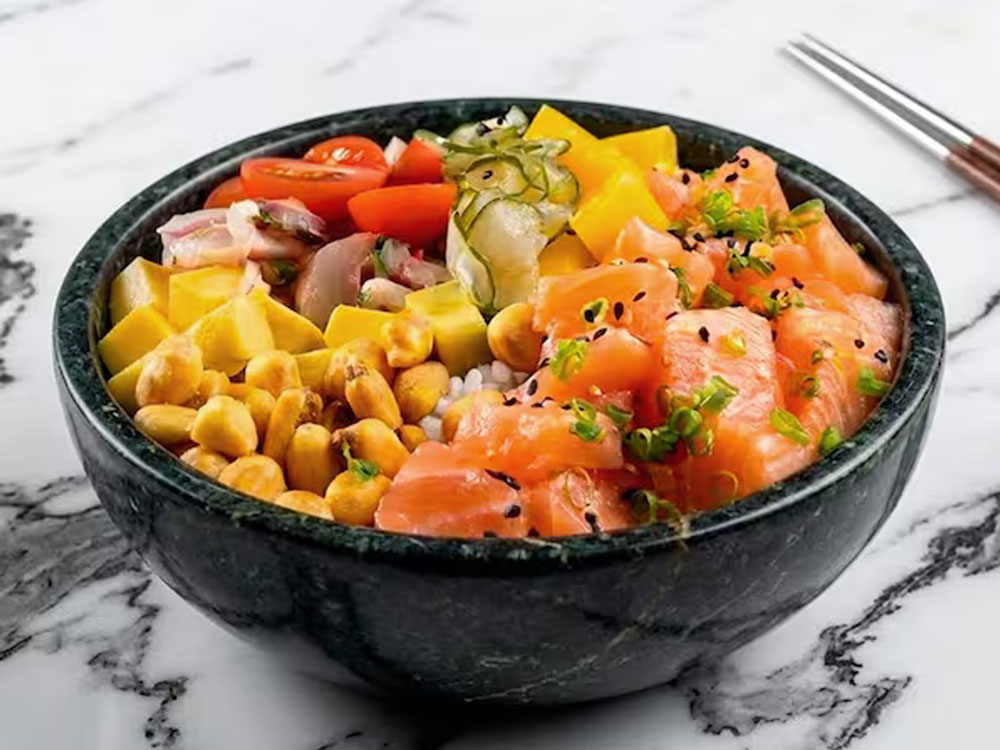
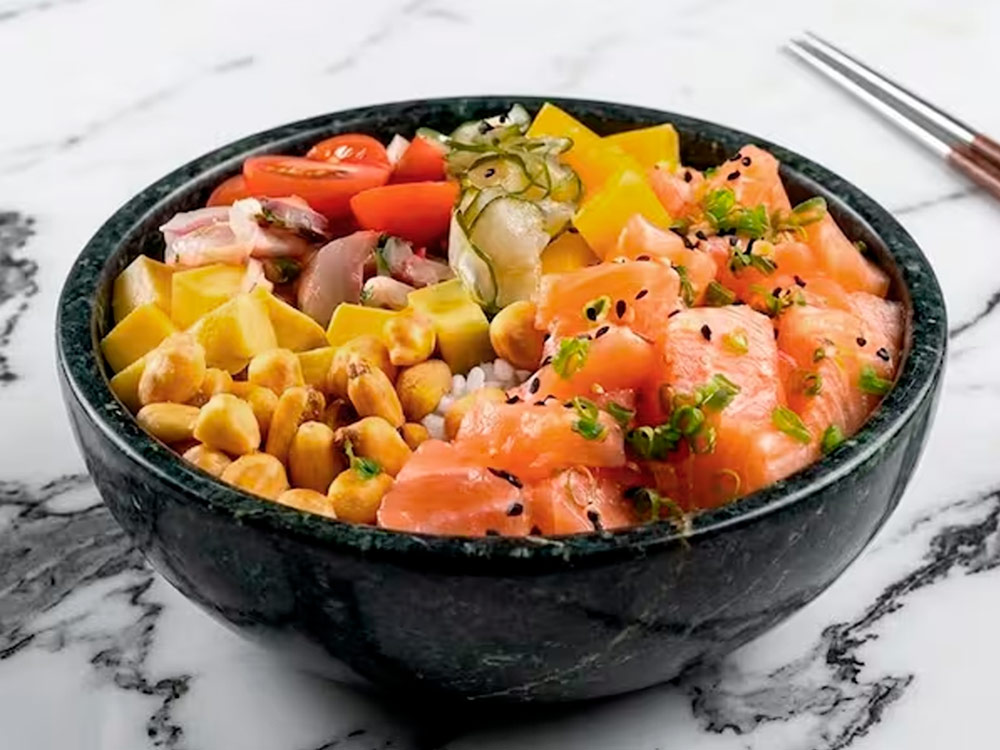
itens 0.3

diff --git a/combinados/itens.js b/combinados/itens.js
@@ -72,31 +72,44 @@
         thumb: "img/hot-12und.jpg?w=600&q=80"
       },
       {
-        id: 4, category: "Promoções",
+        id: 4, category: "Pokes",
         title: "Poke Domó Salmão com Ceviche",
-        description: "-- POKE 500g -- - 200g Arroz Japonês, - 100g  Cubos de Salmão Fresco, - 30g   Ceviche de Peixe Branco,- 40g   Manga Doce, - 40g   Abacate Cremoso, - 40g   Tomatinhos, - 40g   Sunomono, - 10g   Milho Desidratado.     -- POKE 350g -- - 140g Arroz Japonês, - 70g   Cubos de Salmão Fresco, - 21g   Ceviche de Peixe Branco, - 28g  Manga Doce, - 28g  Abacate Cremoso, - 28g  Tomatinhos, - 28g  Sunomono, - 7g  Milho Desidratado",
+        description: "*POKE 500g* - 200g Arroz Japonês, - 100g  Cubos de Salmão Fresco, - 30g   Ceviche de Peixe Branco,- 40g   Manga Doce, - 40g   Abacate Cremoso, - 40g   Tomatinhos, - 40g   Sunomono, - 10g   Milho Desidratado. Com toque de mel, gergelim e cebolinha.",
+        description2: "*POKE 350g* - 140g Arroz Japonês, - 70g   Cubos de Salmão Fresco, - 21g   Ceviche de Peixe Branco, - 28g  Manga Doce, - 28g  Abacate Cremoso, - 28g  Tomatinhos, - 28g  Sunomono, - 7g  Milho Desidratado. Com toque de mel, gergelim e cebolinha.",
         price: "R$ 0",
         color: "#3a3020",
         image: "img/poke-salmao.jpg?w=1200&q=80",
         thumb: "img/poke-salmao.jpg?w=600&q=80"
       },
       {
-        id: 5, category: "Sobremesas",
-        title: "Cheesecake de Maracujá",
-        description: "Cheesecake nova-iorquino com base de biscoito especuloos, creme de cream cheese e mascarpone, coulis de maracujá fresco com sementes crocantes. Refrescante acidez equilibrada pela suavidade da baunilha de Madagascar.",
-        price: "R$ 42",
+        id: 5, category: "Pokes",
+        title: "Poke Domó Camarão",
+        description: "*Poke 500g* -200g Arroz Japonês, - 100g Camarão Crocante, - 30g Ceviche de Peixe Branco, - 40g Manga Doce, - 40g Abacate Cremoso, - 40g Tomate Cereja, - 40g Sunomono, - 10g Milho Desidratado. Com toque de mel, gergelim e cebolinha.",
+        description2: "*Poke 350g* -140g Arroz Japonês, - 70g  Camarão Crocante, - 21g  Ceviche de Peixe Branco, - 28g  Tomatinhos, - 28g  Sunomono, - 28g  Manga Doce, - 28g  Abacate Cremoso, - 7g  Milho Desidratado. Com toque de mel, gergelim e cebolinha.",
+        price: "R$ 0",
         color: "#2a2a1a",
-        image: "https://images.unsplash.com/photo-1567171466295-4afa63d45416?w=1200&q=80",
-        thumb: "https://images.unsplash.com/photo-1567171466295-4afa63d45416?w=600&q=80"
+        image: "img/poke-camarao.jpg?w=1200&q=80",
+        thumb: "img/poke-camarao.jpg?w=600&q=80"
       },
       {
-        id: 6, category: "Sobremesas",
-        title: "Tiramisù Clássico",
-        description: "Receita tradicional italiana com savoiardi embebidos em espresso artesanal, creme de mascarpone e gemas pasteurizadas com açúcar de cana, coberto com cacau belga em pó. Servido em taça individual à temperatura perfeita.",
-        price: "R$ 48",
+        id: 6, category: "Pokes",
+        title: "Poke Shimeji",
+        description:  "*Poke 500g* - 200g Arroz Japonês, - 100g Frango Grelhado com Lemon Pepper, - 30g Shimeji Puxado na Manteiga, - 40g Manga Doce, - 40g Abacate Cremoso, - 40g Tomatinhos, - 40g Sunomono, - 10g Milho Desidratado. Com toque de mel, gergelim e cebolinha",
+        description2: "*Poke 350g* - 140g Arroz Japonês, - 70g  Frango Grelhado com Lemon Pepper, - 21g  Shimeji Puxado na Manteiga, - 28g  Tomate Cereja, - 28g  Sunomono, - 28g  Manga, - 28g  Abacate, - 7g   Milho Desidratado Com toque de mel, gergelim e cebolinha.",
+        price: "R$ 0",
         color: "#2a1a10",
-        image: "https://images.unsplash.com/photo-1571877227200-a0d98ea607e9?w=1200&q=80",
-        thumb: "https://images.unsplash.com/photo-1571877227200-a0d98ea607e9?w=600&q=80"
+        image: "img/poke-shimeji.jpg?w=1200&q=80",
+        thumb: "img/poke-shimeji.jpg?w=600&q=80"
+      },
+            {
+        id: 7, category: "Pokes",
+        title: "Poke Domó Frango com Shimeji",
+        description:  "*Poke 500g* - 200g Arroz Japonês, - 130g Shimeji Puxado na Manteiga, - 40g Manga Doce, - 40g Abacate Cremoso, - 40g Tomatinhos, - 40g Sunomono, - 10g Milho Desidratado. Com toque de mel, gergelim e cebolinha",
+        description2: "*Poke 350g* - 140g Arroz Japonês, - 91g  Shimeji Puxado na Manteiga, - 28g  Manga Doce, - 28g  Abacate Cremoso,- 28g  Tomatinhos, - 28g  Sunomono, - 7g  Milho Desidratado. Com toque de mel, gergelim e cebolinha.",
+        price: "R$ 0",
+        color: "#2a1a10",
+        image: "img/poke-frago-com-shimeji.jpg?w=1200&q=80",
+        thumb: "img/poke-frago-com-shimeji.jpg?w=600&q=80"
       },
       {
         id: 7, category: "Bebidas",

diff --git a/combinados/index.html b/combinados/index.html
@@ -184,12 +184,14 @@
     }
 
     .slide-desc {
+      white-space: pre-line;
       font-size: .9rem;
       font-weight: 300;
       line-height: 1.8;
       color: rgba(240, 232, 216, .72);
       max-width: 480px;
       margin: 0 auto 2rem;
+
     }
 
     .slide-price {
@@ -631,6 +633,7 @@
       <h1 class="lb-title" id="lb-title"></h1>
       <div class="lb-image" id="lb-image"></div>
       <p class="lb-desc" id="lb-desc"></p>
+      <p class="lb-desc" id="lb-desc2"></p>
       <span class="lb-price" id="lb-price"></span>
       <div class="lb-nav">
         <button class="lb-nav-btn" onclick="lbNav(-1)">&#8592; Anterior</button>
@@ -639,10 +642,9 @@
     </div>
   </div>
 
-    <script src="itens.js">  </script>
+  <script src="itens.js">  </script>
 
   <script>
-   
 
     // ─── SLIDESHOW ───────────────────────────────────
     let current = 0, autoPlay = true, timer = null, interval = 5000, startTime;
@@ -662,6 +664,7 @@
         <span class="slide-tag">${item.category}</span>
         <h2 class="slide-title">${item.title}</h2>
         <p class="slide-desc">${item.description}</p>
+        <p class="slide-desc">${item.description2}</p>
         <span class="slide-price">${item.price}</span>
       </div>`;
         sw.appendChild(s);
@@ -760,6 +763,7 @@
       document.getElementById('lb-title').textContent = item.title;
       document.getElementById('lb-image').style.backgroundImage = `url('${item.image}')`;
       document.getElementById('lb-desc').textContent = item.description;
+      document.getElementById('lb-desc2').textContent = item.description2;
       document.getElementById('lb-price').textContent = item.price;
     }
 